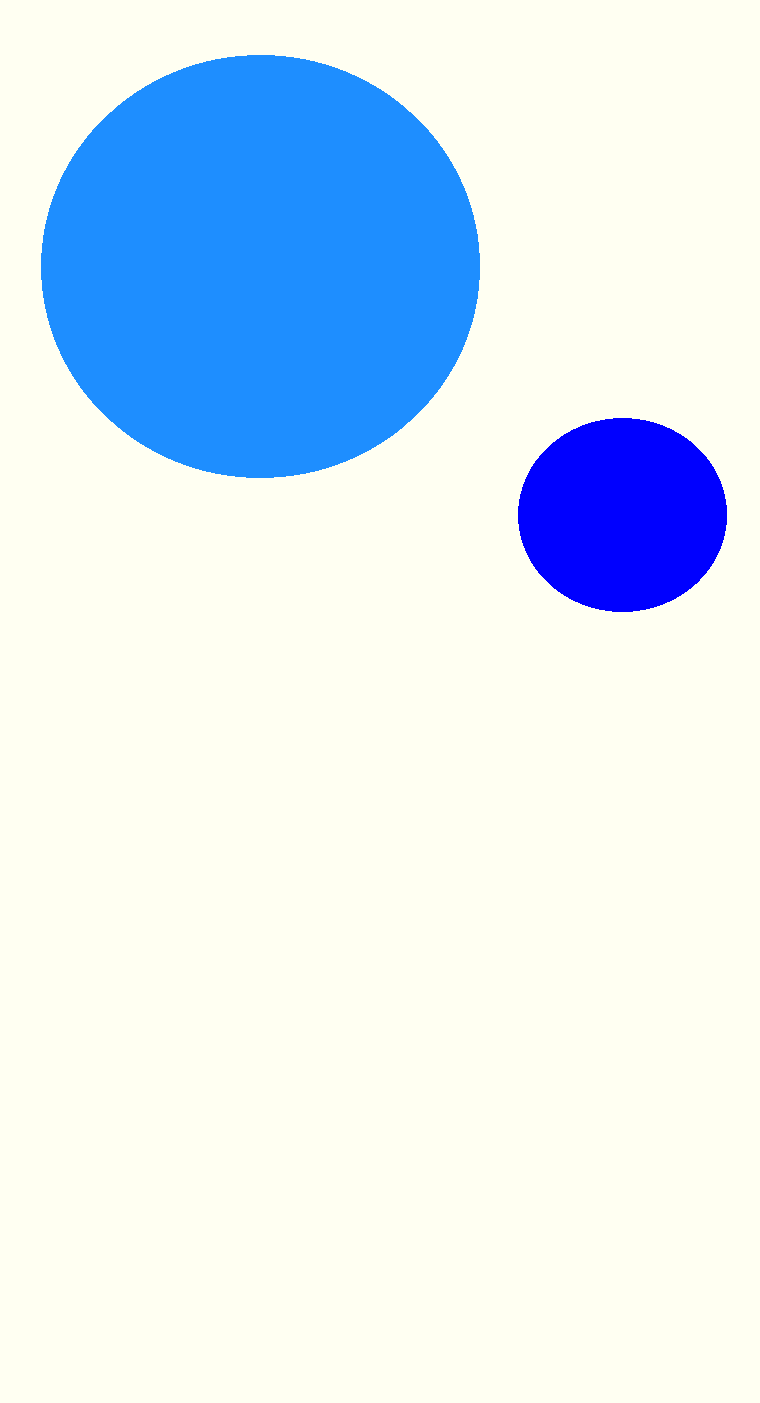
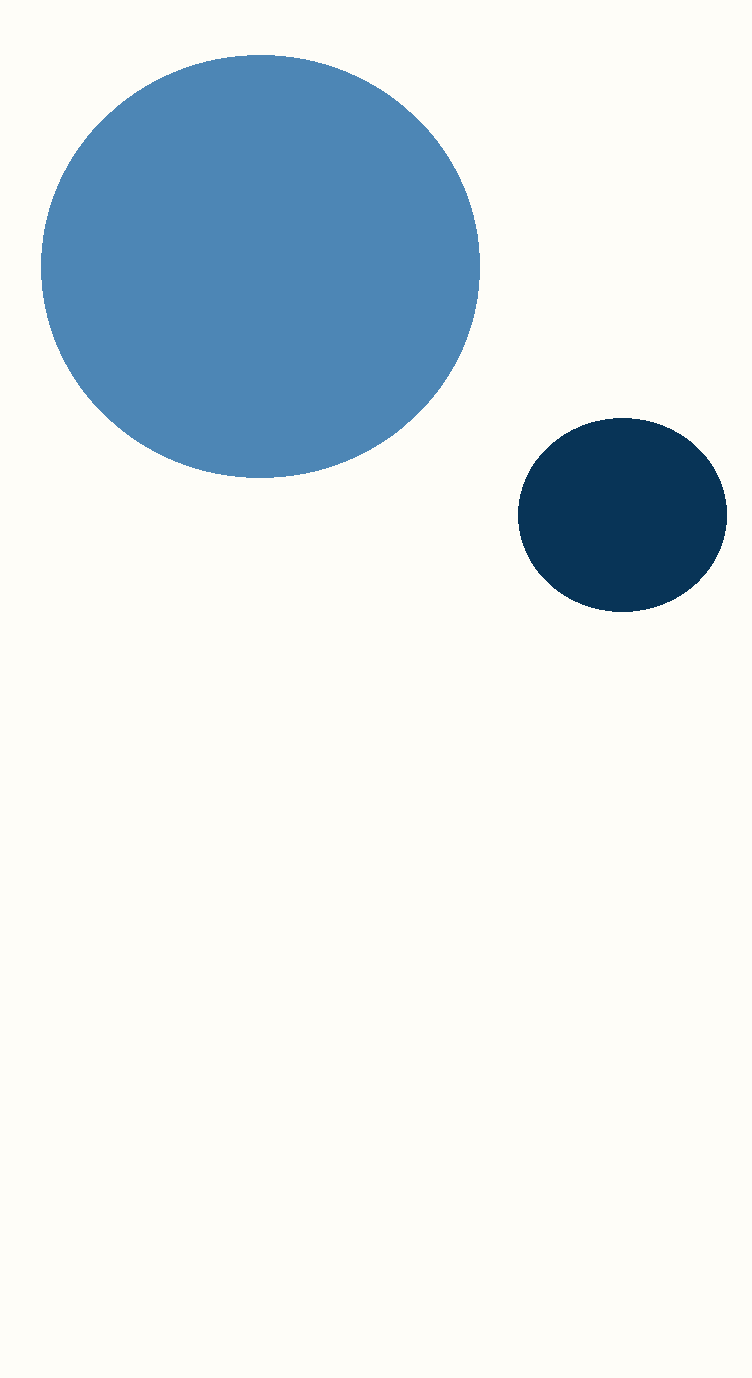
changed login image

Changed region(s): [[0.0306, 0.0312, 0.6423, 0.3745], [0.6729, 0.2808, 0.9787, 0.4681]]

diff --git a/lib/login_screen.dart b/lib/login_screen.dart
@@ -3,8 +3,8 @@ import 'package:flutter/material.dart';
 import 'package:flutter/widgets.dart';
 import 'constants.dart';
 import 'custom_containers.dart';
-import 'constants.dart';
 import 'package:font_awesome_flutter/font_awesome_flutter.dart';
+import 'package:flutter/services.dart';
 
 class LoginScreen extends StatefulWidget {
   @override
@@ -16,6 +16,10 @@ class LoginScreen extends StatefulWidget {
 class _LoginScreenState extends State<LoginScreen> {
   @override
   Widget build(BuildContext context) {
+    SystemChrome.setSystemUIOverlayStyle(SystemUiOverlayStyle(
+      systemNavigationBarColor: kLightCream, // navigation bar color
+      statusBarColor: kLightCream, // status bar color
+    ));
     return Scaffold(
       body: Container(
         decoration: BoxDecoration(
@@ -30,16 +34,6 @@ class _LoginScreenState extends State<LoginScreen> {
         child: SafeArea(
           child: Column(
             children: [
-              Container(
-                alignment: Alignment.centerLeft,
-                child: IconButton(
-                    icon: FaIcon(FontAwesomeIcons.chevronLeft),
-                    iconSize: 30.0,
-                    color: Colors.white,
-                    onPressed: () {
-                      Navigator.pop(context);
-                    }),
-              ),
               Expanded(
                 child: Container(
                   margin: EdgeInsets.only(left: 10.0),
@@ -79,7 +73,7 @@ class _LoginScreenState extends State<LoginScreen> {
                           IconButton(
                               icon: FaIcon(FontAwesomeIcons.arrowCircleRight),
                               iconSize: 80.0,
-                              color: kDarkBlue2,
+                              color: Colors.black,
                               onPressed: null),
                         ],
                       ),

diff --git a/lib/main.dart b/lib/main.dart
@@ -10,7 +10,7 @@ class MyApp extends StatelessWidget {
   Widget build(BuildContext context) {
     return MaterialApp(
       theme: ThemeData.dark(),
-      initialRoute: 'welcome_screen.dart',
+      initialRoute: 'login_screen.dart',
       routes: {
         'home_screen.dart': (context) => HomeScreen(),
         'login_screen.dart': (context) => LoginScreen(),

diff --git a/lib/constants.dart b/lib/constants.dart
@@ -5,6 +5,7 @@ const kDarkBlue = Color(0xFF3F48CC);
 const kVeryLightCream = Color(0xFFFEFDF8);
 const kDarkBlue2 = Color(0xFF07375D);
 const kLightBlue2 = Color(0xFF4E84B3);
+const kLightCream = Color(0xFFD6D6CA);
 
 const kLoginTextStyle = TextStyle(
   fontFamily: 'Handlee',
